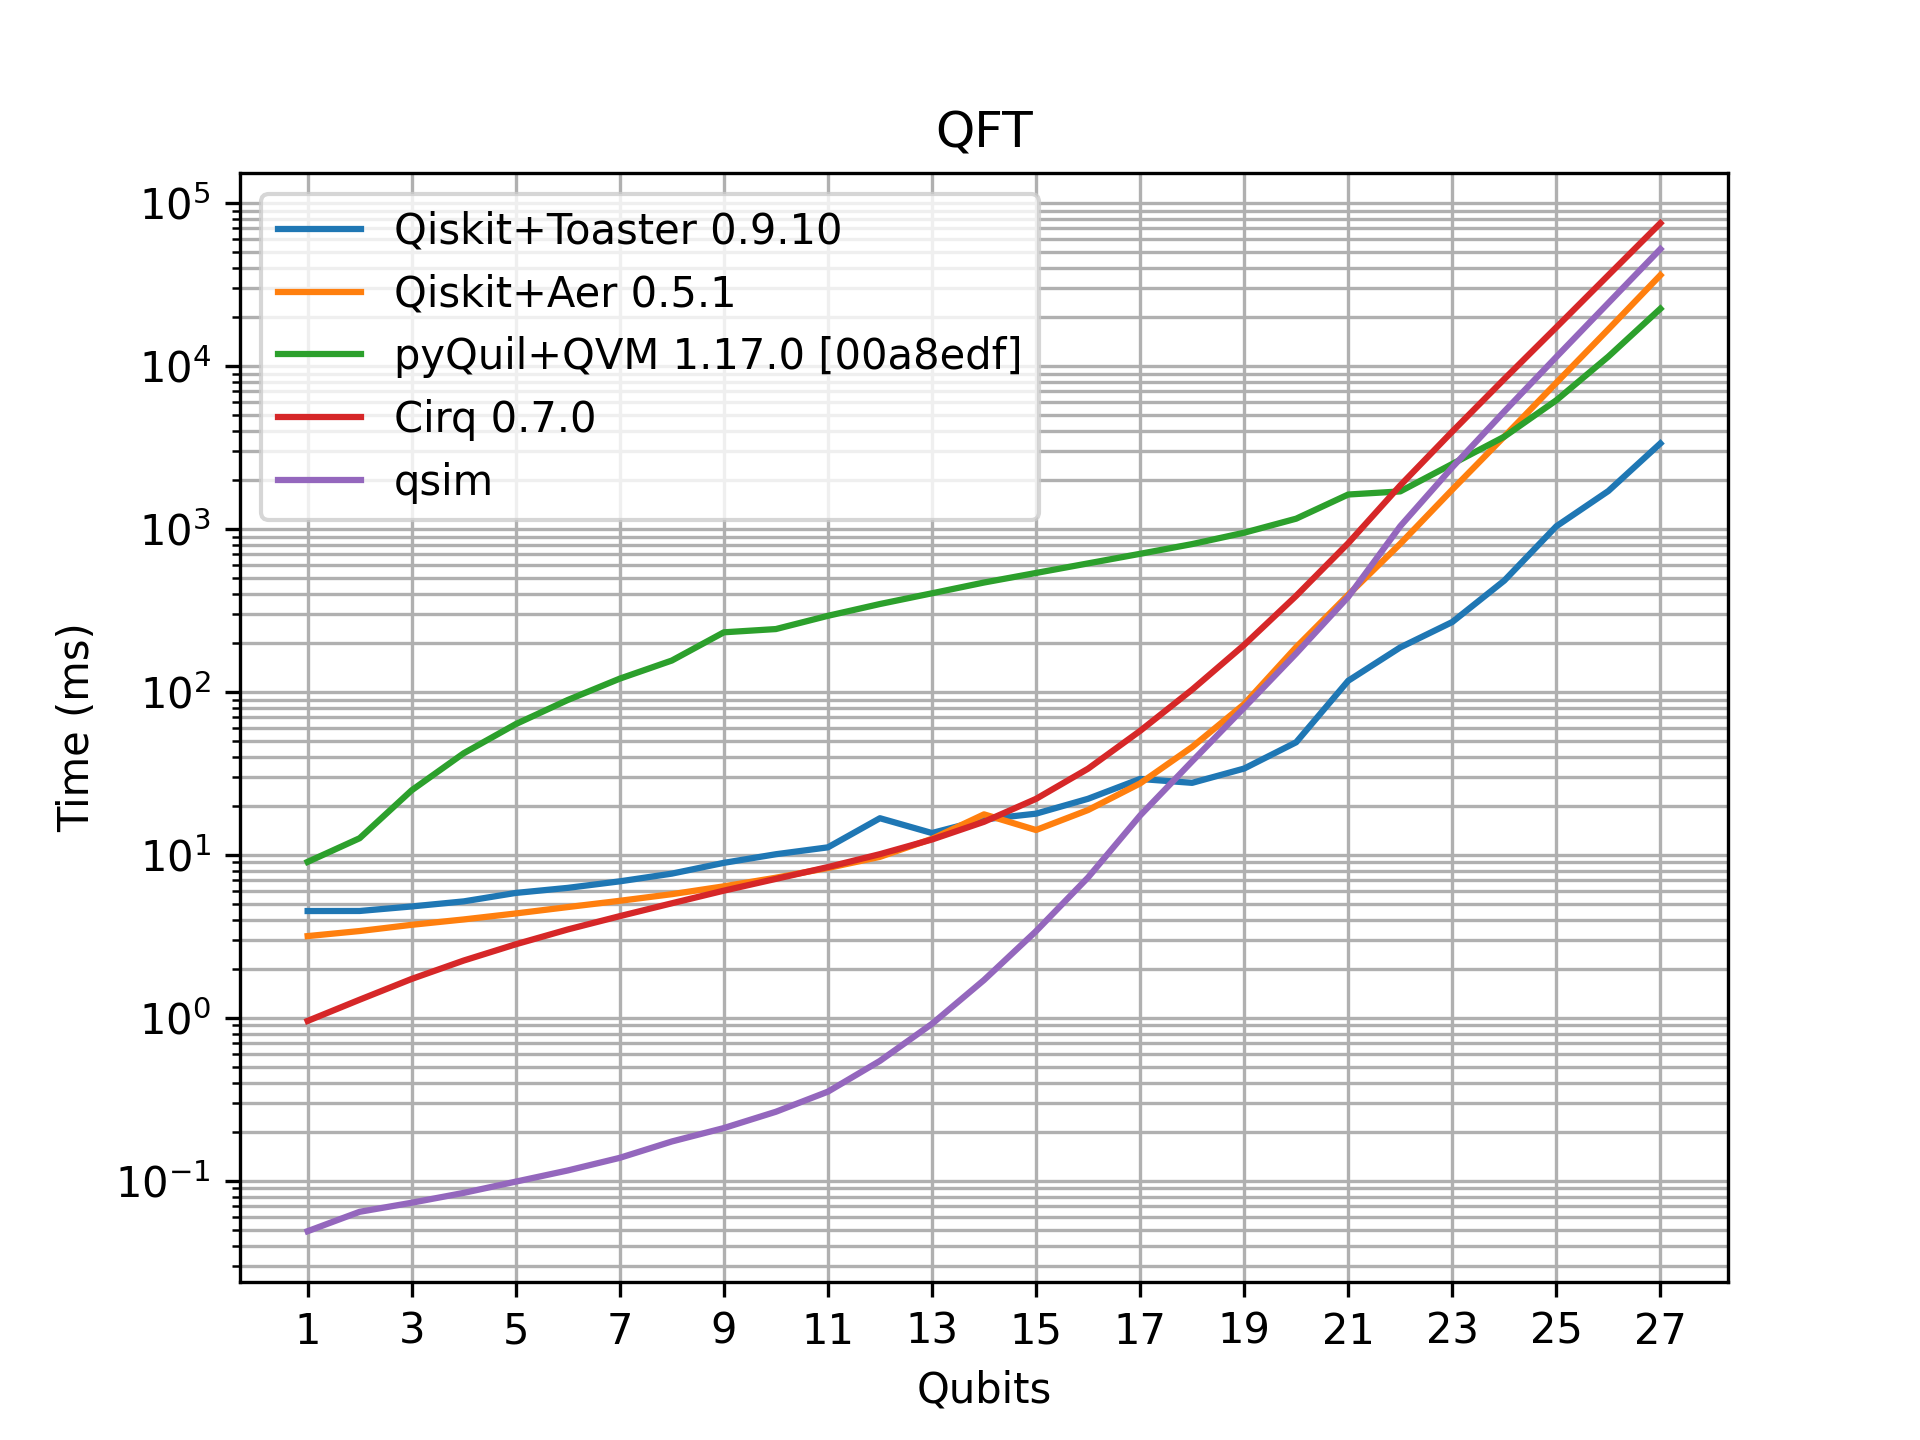
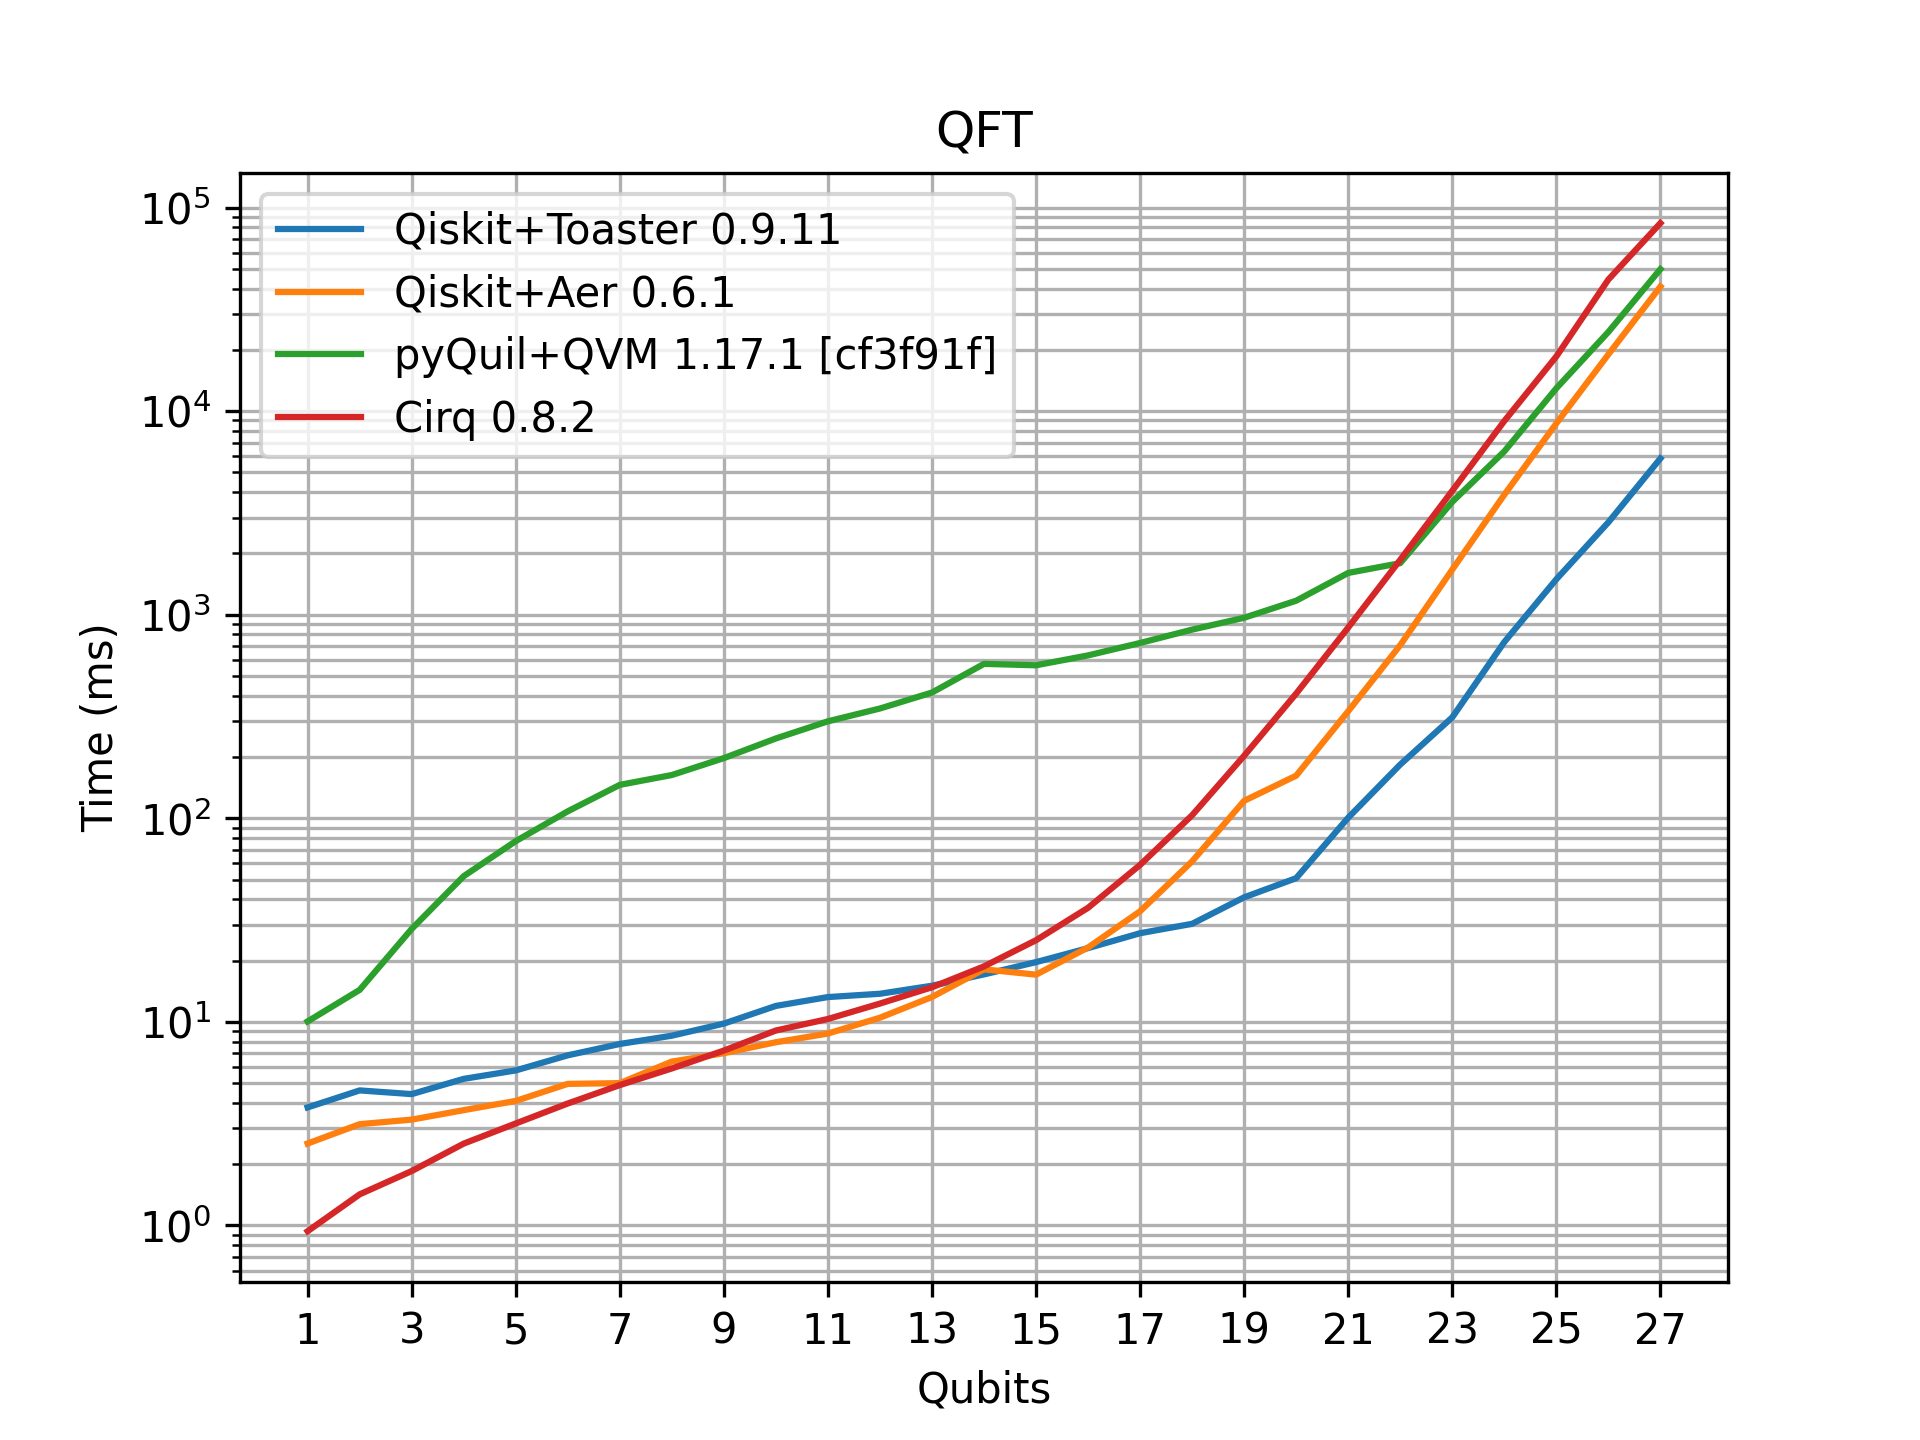
Updated pyQuil to latest version and commented out qsim

diff --git a/benchmark_qft.py b/benchmark_qft.py
@@ -250,7 +250,7 @@ def benchmark_qft(from_qubits, to_qubits):
     benchmark_qft_cirq(from_qubits, to_qubits, results)
 
     # qsim
-    benchmark_qft_qsim(from_qubits, to_qubits, results)
+#    benchmark_qft_qsim(from_qubits, to_qubits, results)
 
     print(results)
 
